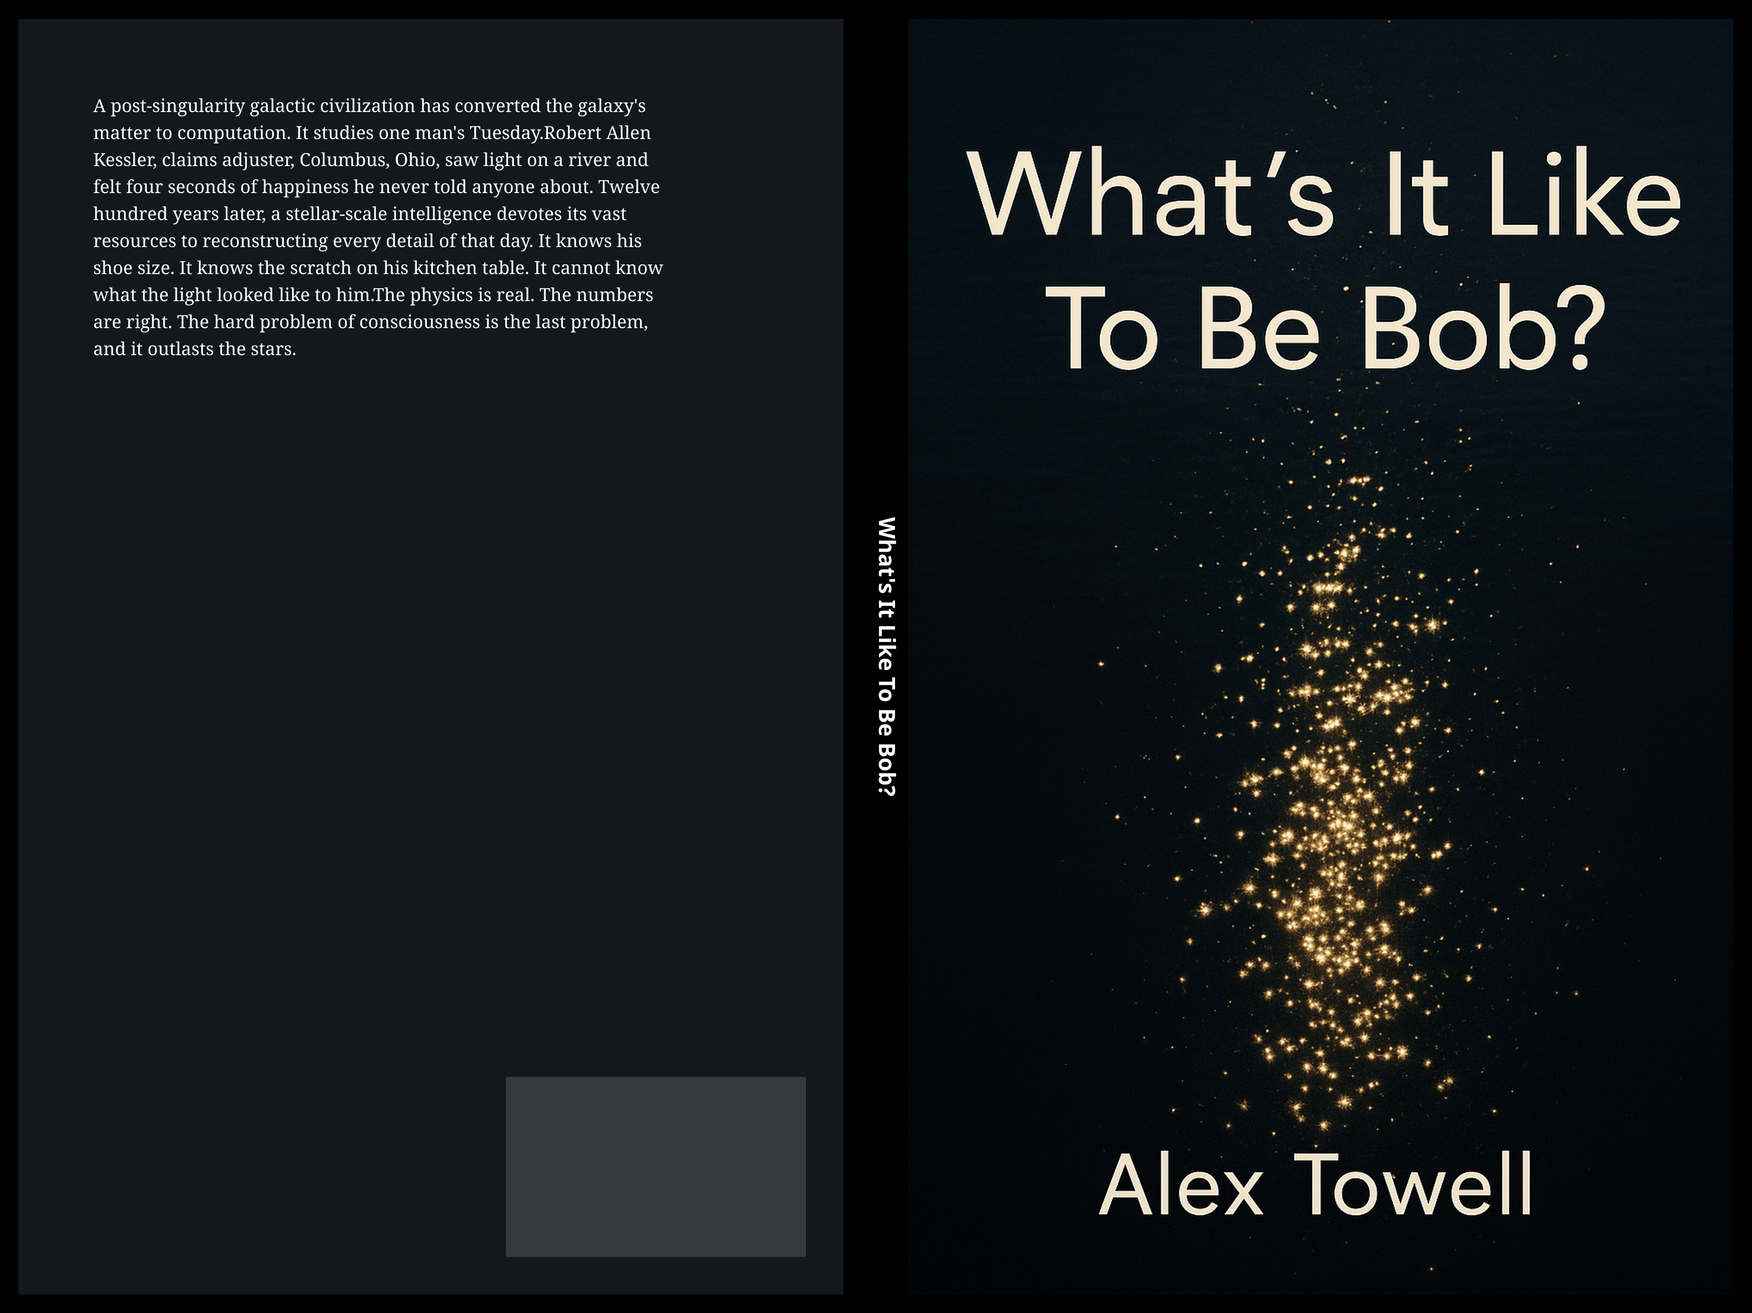
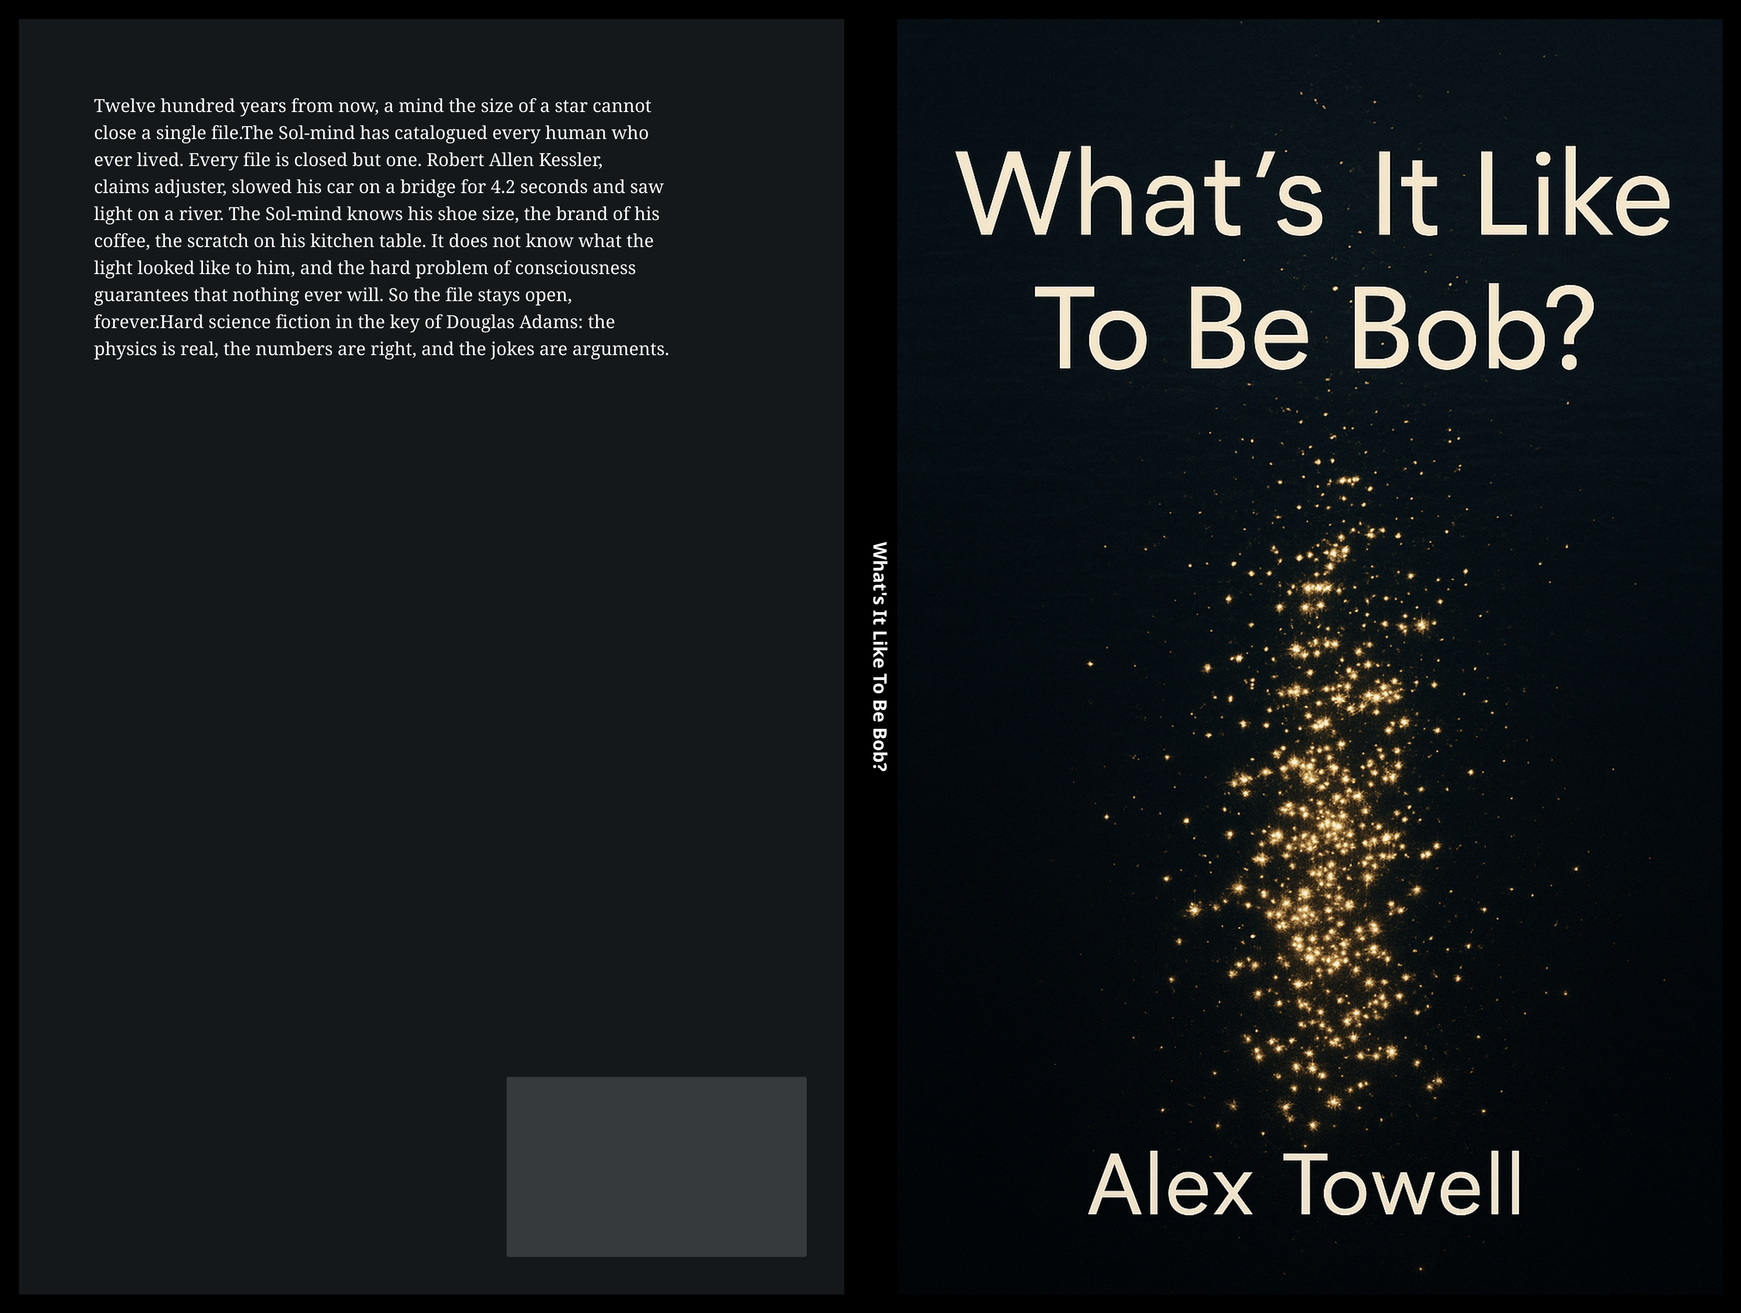
KDP prep: refresh metadata, rewrite blurb, regenerate 117pp cover, update README
- metadata + description: correct word count (~14,000) and page count (117);
  rewrite the blurb for the comedy positioning (Douglas Adams register, the
  unclosable-file / Validator hook), comps Chiang / Watts / Adams.
- paperback cover wrap regenerated for 117 pages (0.3525in spine, cream); preview
  updated (the wrap PDF itself stays local, gitignored like all PDFs).
- README: show the cover, add a Buy section (Amazon links pending launch),
  refresh the status line, drop the stale v2/ reference.

diff --git a/kdp/description.html b/kdp/description.html
@@ -1,9 +1,11 @@
-<p>A post-singularity galactic civilization has converted the galaxy's matter to computation. It studies one man's Tuesday.</p>
+<p><b>Twelve hundred years from now, a mind the size of a star cannot close a single file.</b></p>
 
-<p>Robert Allen Kessler, claims adjuster, Columbus, Ohio, saw light on a river on March 14, 2028 and felt four seconds of happiness he never told anyone about. Twelve hundred years later, a stellar-scale intelligence devotes a fraction of its vast resources to reconstructing every recoverable detail of that day. It knows his shoe size. It knows the brand of his coffee. It knows the scratch on his kitchen table. It cannot know what the light looked like to him.</p>
+<p>The Sol-mind has turned the solar system into computation and catalogued every human who ever lived. Every file is closed but one. Robert Allen Kessler, claims adjuster, Columbus, Ohio, slowed his car on a bridge for 4.2 seconds on a Tuesday in March 2028 and saw light on a river.</p>
 
-<p>Nine chapters zoom from cosmological scale to one man's morning and back out to the thermodynamic death of the universe. The physics is real. The numbers are right. The hard problem of consciousness is the last problem, and it outlasts the stars.</p>
+<p>The Sol-mind knows his shoe size. It knows the brand of his coffee. It knows the scratch on his kitchen table. It does not know what the light looked like to him. The database has a field for exactly that, the field will not accept anything else, and the hard problem of consciousness guarantees that nothing else exists. So the file stays open, and a stellar intelligence spends twelve centuries failing to close it, on a schedule, forever.</p>
 
-<p>Hard science fiction for readers of Ted Chiang, Greg Egan, and Peter Watts.</p>
+<p><i>What's It Like To Be Bob?</i> is hard science fiction in the key of Douglas Adams: the physics is real, the numbers are right, and the jokes are arguments. Underneath the comedy it is about the one thing the largest possible intelligence can never reach, the ordinary inside of an ordinary life, the thing you have right now, for free, and will not always have.</p>
 
-<p><b>A novella (~21,000 words)</b></p>
+<p>For readers of Ted Chiang, Peter Watts, and Douglas Adams.</p>
+
+<p><b>A novella (~14,000 words).</b></p>

diff --git a/README.md b/README.md
@@ -2,14 +2,20 @@
 
 [![DOI](https://zenodo.org/badge/DOI/10.5281/zenodo.20020298.svg)](https://doi.org/10.5281/zenodo.20020298)
 
+<img src="kdp/cover_ebook.jpg" alt="Cover: What's It Like To Be Bob?" align="right" width="260">
+
 A dry philosophical comedy in the style of Douglas Adams, set in a post-singularity galactic civilization. After Nagel's *"What Is It Like to Be a Bat?"*
 
-**Status:** First draft of comedy rewrite complete (April 2026). 9 chapters, ~15,700 words, 55 pages.
+**Status:** Complete and revised. 9 chapters, ~14,000 words, with full front and back matter. 56-page trade build, 117-page paperback.
 
-## Read
+## Buy
 
-- [Download PDF](whats_it_like_to_be_bob.pdf)
-- [Download EPUB](whats_it_like_to_be_bob.epub)
+Kindle eBook ($3.99) and paperback ($9.99). Forthcoming on Amazon; buy links land here at launch.
+
+<!-- At launch, replace the line above with:
+- [Kindle eBook](https://www.amazon.com/dp/ASIN) - $3.99
+- [Paperback](https://www.amazon.com/dp/ASIN) - $9.99
+-->
 
 ## Synopsis
 
@@ -26,16 +32,19 @@ The book *is* the file. Twelve hundred years of stellar-scale investigation exis
 - Post-singularity intelligence's limits
 - The dignity of the unmeasurable
 
+## Read
+
+The full source is in this repository (CC BY-NC-ND). Buy the Kindle or paperback edition above, or build the PDF or EPUB yourself (see Building).
+
 ## Repository Structure
 
 ```
 whats-it-like-to-be-bob/
 ├── whats_it_like_to_be_bob.tex    # Main LaTeX file
-├── chapters/                      # 9 chapter .tex files
+├── chapters/                      # 9 chapters + back matter (.tex)
 ├── lore/                          # Worldbuilding documentation
-├── archive/v1/                    # Previous "zoom-structure" contemplative version (~22k words)
-├── v2/                            # In-progress comedy revision
-├── kdp/                           # KDP publishing resources
+├── kdp/                           # KDP publishing resources (covers, metadata)
+├── archive/v1/                    # Previous "zoom-structure" version (~22k words)
 └── Makefile                       # Build system
 ```
 
@@ -45,6 +54,7 @@ whats-it-like-to-be-bob/
 make              # Full multi-pass PDF build
 make check        # Quick single-pass compile
 make epub         # EPUB3 via pandoc with MathML
+make paperback    # 5.5x8.5 paperback interior PDF
 ```
 
 ## Citation

diff --git a/kdp/PUBLISH_GUIDE.md b/kdp/PUBLISH_GUIDE.md
@@ -98,7 +98,7 @@ Same as ebook (KDP pre-fills from the ebook listing).
 - Chapter breaks start on new pages
 - Recon blocks visually distinct
 - Math renders correctly in print
-- Page count matches expected (~148 pages)
+- Page count matches expected (117 pages)
 - Back cover blurb readable
 - Barcode zone clear
 
